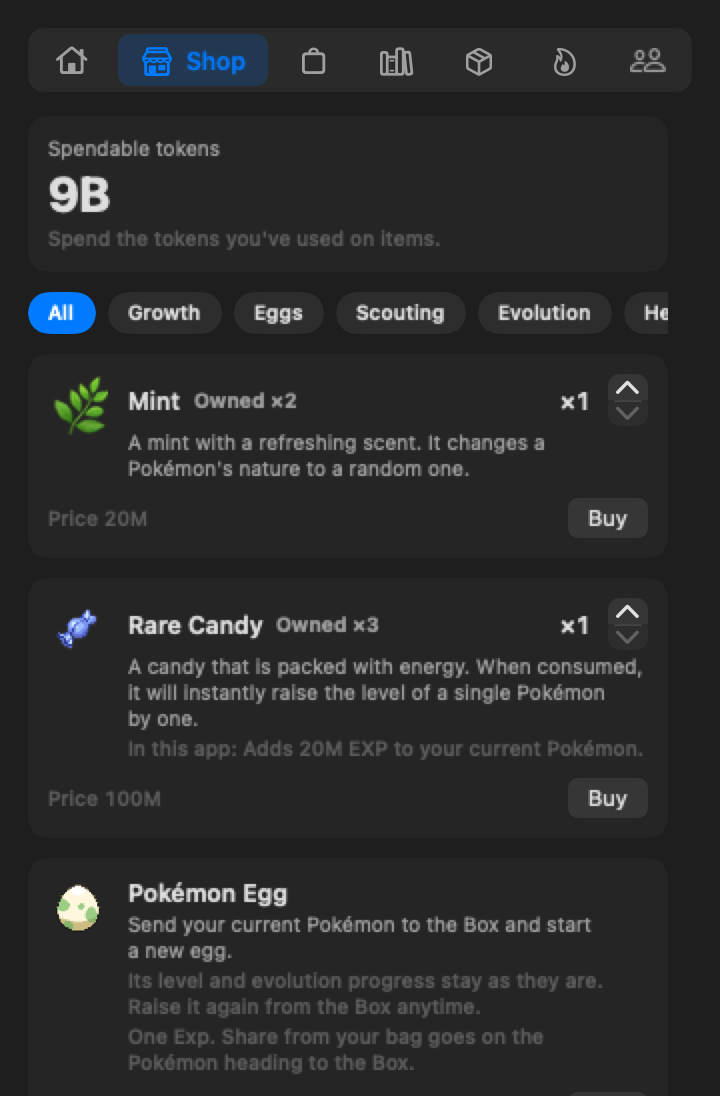
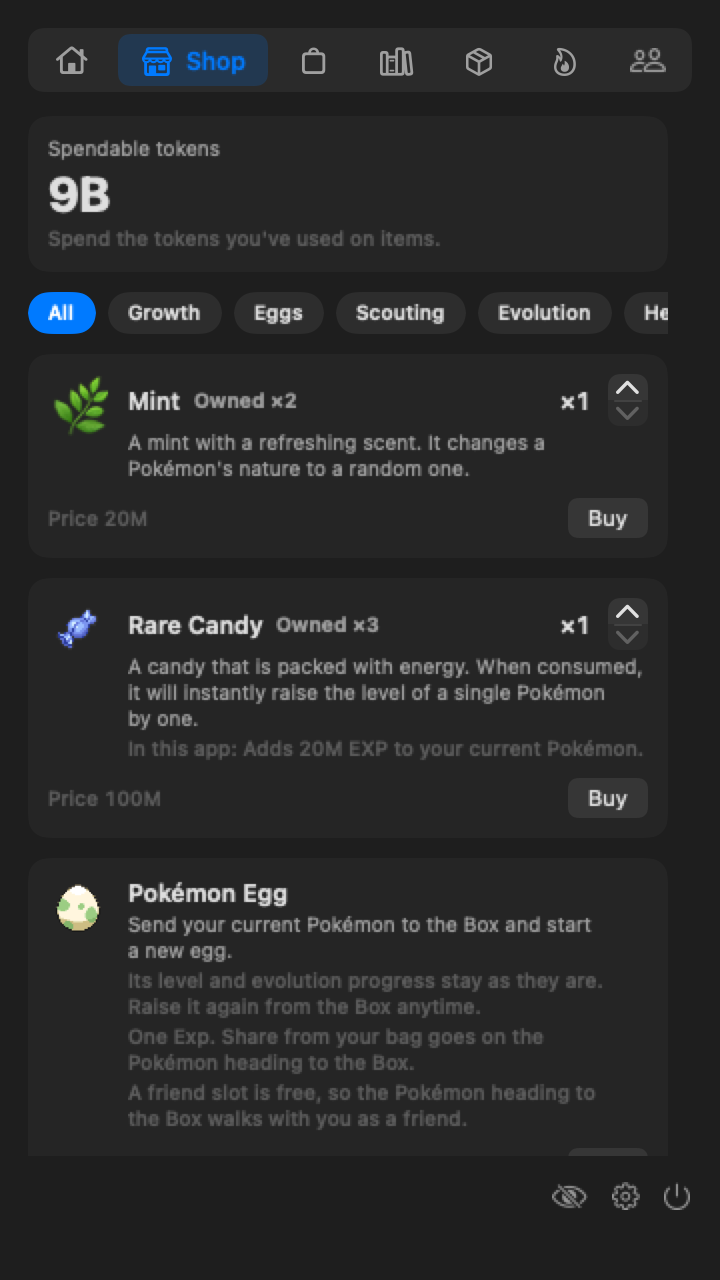
docs: add a README image of a stored friend and redraw the Box, Exp. Share, Shop and floating-friend images

diff --git a/Tests/PokeTokenBarTests/ReadmeScreenshotTests.swift b/Tests/PokeTokenBarTests/ReadmeScreenshotTests.swift
@@ -10,7 +10,7 @@ import XCTest
 @MainActor
 final class ReadmeScreenshotTests: XCTestCase {
     private static let server = "http://bot-host:8790"
-    private static let species = [4, 5, 6, 25, 95, 133]
+    private static let species = [1, 4, 5, 6, 25, 95, 133]
     private let languages: [(AppLanguage, String)] = [(.en, ""), (.ko, "-ko"), (.ja, "-ja")]
 
     func testDrawReadmeImages() async throws {
@@ -78,13 +78,16 @@ final class ReadmeScreenshotTests: XCTestCase {
                     .environment(uploader).environment(entry)
             }
             if language == .en {
-                store.removeFriend(entryID: BoxDexFixture.pikachuID)
                 try await shot(popover(home) { $0.tab = .home }, "screenshot-home", in: dir, height: nil)
-                XCTAssertTrue(store.addFriend(entryID: BoxDexFixture.pikachuID))
+                XCTAssertTrue(store.addFriend(entryID: StoredFriendScreenshotTests.bulbasaurID))
                 try await shot(await floatingFriends(usage: usage, store: store, sprites: scratch), "screenshot-floating-friends",
                                in: dir, height: nil)
+                store.removeFriend(entryID: StoredFriendScreenshotTests.bulbasaurID)
             }
-            try await shot(popover { $0.tab = .shop }, "screenshot-shop\(suffix)", in: dir, height: 548)
+            try await shot(try await storedFriends(store: store, language: language, usage: usage, defaults: defaults,
+                                                   sprites: scratch),
+                           "screenshot-stored-friends\(suffix)", in: dir, height: nil)
+            try await shot(popover { $0.tab = .shop }, "screenshot-shop\(suffix)", in: dir, height: 640)
             try await shot(popover { $0.tab = .bag }, "screenshot-bag\(suffix)", in: dir, height: 420)
             try await shot(heldItems(store: store), "screenshot-held-items\(suffix)", in: dir, height: nil)
             try await shot(popover { $0.tab = .dex }, "screenshot-collection-pokedex\(suffix)", in: dir, height: 420)
@@ -93,8 +96,8 @@ final class ReadmeScreenshotTests: XCTestCase {
                            "screenshot-pokemon-profile\(suffix)", in: dir, height: 560)
             try await shot(statusMoves(store: store, uploader: uploader, entry: entry),
                            "screenshot-status-moves\(suffix)", in: dir, height: nil)
-            try await shot(popover { $0.openBoxDetail(id: BoxDexFixture.pikachuID) },
-                           "screenshot-exp-share\(suffix)", in: dir, height: 372)
+            try await shot(popover { $0.openBoxDetail(id: StoredFriendScreenshotTests.bulbasaurID) },
+                           "screenshot-exp-share\(suffix)", in: dir, height: 380)
             let (battleStore, battleCleanup) = try BoxDexFixture.makeStore(
                 language: language, mutate: { Self.sample(&$0); Self.addKyogre(&$0) }, defaults: defaults)
             defer { battleCleanup() }
@@ -148,7 +151,8 @@ final class ReadmeScreenshotTests: XCTestCase {
         state.inventory["shiny-egg:150"] = 1
         state.inventory[ItemKind.punchingGlove.rawValue] = 1
         state.expShareHolders = [BoxDexFixture.pikachuID]
-        state.friendEntryIDs = [BoxDexFixture.charizardID, BoxDexFixture.pikachuID]
+        state.friendEntryIDs = [BoxDexFixture.charizardID]
+        StoredFriendScreenshotTests.addBulbasaur(&state)
         state.gymBadges.update("kanto") { $0.gyms = [1, 2, 3] }
     }
 
@@ -221,6 +225,38 @@ final class ReadmeScreenshotTests: XCTestCase {
             .frame(width: panel.width, height: panel.height)
             .frame(maxWidth: .infinity)
             .padding(.vertical, Spacing.lg)
+    }
+
+    /// The friend picker offering the stored Bulbasaur, and Home's header once it walks beside the raised Pokémon.
+    private func storedFriends(store: CompanionStore, language: AppLanguage, usage: UsageStore, defaults: UserDefaults,
+                               sprites: URL) async throws -> some View {
+        let (walking, cleanup) = try BoxDexFixture.makeStore(language: language, mutate: Self.sample, defaults: defaults)
+        addTeardownBlock { @MainActor in cleanup() }
+        XCTAssertTrue(walking.addFriend(entryID: StoredFriendScreenshotTests.bulbasaurID))
+        for id in Self.species { await walking.loadPokemonDetails(speciesID: id) }
+        walking.update(todayTokensByProvider: ["claude_code": 0], todayDate: "d1", monthTotal: 0, burnTier: .idle,
+                       limitWarning: false, hasUsageData: true)
+        try await waitUntil("the walking store's line to load") { walking.currentLine != nil }
+        let spriteStore = SpriteStore(directory: sprites.appendingPathComponent("sprites"))
+        for entry in store.state.dex {
+            let friend = FriendSubject(entry)
+            _ = await spriteStore.data(speciesID: friend.megaSpriteID ?? friend.speciesID, animated: false,
+                                       shiny: friend.isShiny, form: friend.megaSpriteID == nil ? friend.form : nil,
+                                       female: friend.megaSpriteID == nil && friend.isFemale)
+        }
+        return VStack(alignment: .leading, spacing: 18) {
+            FriendPicker(store: store, spriteStore: spriteStore) {}
+                .frame(height: 96, alignment: .top)
+                .padding(12)
+                .frame(maxWidth: .infinity, alignment: .leading)
+                .ptbCard()
+                .environment(store)
+            CompanionHeader(store: walking, spriteStore: spriteStore)
+                .padding(12)
+                .ptbCard()
+                .environment(walking).environment(usage)
+        }
+        .padding(PopoverMetrics.padding)
     }
 
     /// The gym list and the badge case, each on the card the Battle tab draws it on.

diff --git a/scripts/release-asset-gate.py b/scripts/release-asset-gate.py
@@ -52,7 +52,7 @@ SCREENS = (
                                         "screenshot-dex-next-evolution")),
     ("FloatingPetPanel.swift", ("screenshot-pet-interactions", "floating-pet", "screenshot-floating-friends")),
     ("PetCrowdViews.swift", ("screenshot-home", "screenshot-pet-interactions", "floating-pet",
-                             "screenshot-floating-friends")),
+                             "screenshot-floating-friends", "screenshot-stored-friends")),
     ("MenuBarContent.swift", ("menubar", "screenshot-menu-growth")),
 )
 

diff --git a/README.ko.md b/README.ko.md
@@ -178,8 +178,17 @@ Pi는 모델 여러 개를 세션 로그 하나로 흘려보낼 수 있습니다
 <td width="55%" valign="middle">
 <h3>📚 박스 포켓몬을 위한 학습장치</h3>
 가방의 <b>학습장치</b>를 박스 포켓몬 하나의 상세 화면에서 달아 주세요. 그 포켓몬은 지금 키우는 포켓몬이나 알이 얻는 경험치의 50%를 함께 받아서, 다음 포켓몬을 키우는 동안 졸업한 포켓몬도 계속 자랍니다. 떼기도 같은 화면에서 해요. <b>포켓몬 알</b>로 지금 포켓몬을 박스에 보내면 가방의 학습장치 하나가 그 포켓몬에 달려요.
+<br><br>
+학습장치는 포켓몬끼리 옮길 수도 있어요. 박스 상세 화면의 <b>여기로 옮기기</b>에서 가져올 포켓몬을 고르면 되고, 가방이 비어 있어도 됩니다. 학습장치를 단 박스 포켓몬은 경험치·레벨·친구·타입만 필요한 단계라면 박스에서 진화해요. 도구·교환·쓰다듬기·대결이 필요한 단계는 기다리고, 박스 화면에 다음 단계가 보여요.
 </td>
-<td width="45%" align="center"><img src="assets/screenshot-exp-share-ko.png" width="300" alt="박스의 피카츄에 단 학습장치"></td>
+<td width="45%" align="center"><img src="assets/screenshot-exp-share-ko.png" width="300" alt="여기로 옮기기와 달기 버튼이 보이는 박스의 이상해씨 상세 화면"></td>
+</tr>
+<tr>
+<td width="45%" align="center"><img src="assets/screenshot-stored-friends-ko.png" width="300" alt="보관 중인 이상해씨를 고를 수 있는 친구 선택과, 리자몽 옆을 걷는 이상해씨가 보이는 홈"></td>
+<td width="55%" valign="middle">
+<h3>🤝 박스 포켓몬도 함께 걸어요</h3>
+졸업한 포켓몬뿐 아니라 박스에서 쉬는 포켓몬도 친구가 될 수 있어요. 선택 화면에는 <b>보관 중</b> 표시가 붙어요. 지금 모습 그대로 홈과 플로팅 펫 옆을 걷고, 다시 키우면 친구 목록에서 빠져요. 포켓몬 알이나 스카우트로 지금 포켓몬을 박스에 보낼 때 친구 칸이 비어 있으면 그 포켓몬이 친구로 들어와요.
+</td>
 </tr>
 <tr>
 <td width="45%" align="center"><img src="assets/screenshot-battle-ko.png" width="300" alt="대결 탭 — 나갈 순서대로 선 최대 여섯 마리"><br><br><img src="assets/screenshot-gyms-ko.png" width="300" alt="체육관 관장·사천왕·아지트와 배지 케이스"></td>
@@ -259,7 +268,7 @@ Pi는 모델 여러 개를 세션 로그 하나로 흘려보낼 수 있습니다
 
 <img src="assets/screenshot-usage-recap-ko.png" width="360" alt="선택한 기간의 사용량 돌아보기">
 
-<small>위 홈·설정·폼·상점·가방·도감·다음 진화·박스·프로필·학습장치·대결·체육관·리플레이·챔피언·플로팅 친구·난이도·활동·지방 도감·펫 상호작용·회고 이미지는 샘플 데이터로 실제 UI를 로컬 렌더링한 이미지입니다. 체육관 이미지는 YPoke 봇의 관동 체육관 목록을 씁니다. 지방 도감·펫 보드는 별도로 렌더링한 실제 UI 컴포넌트를 조합했습니다. GIF는 설명용 데모이며 이전 배치를 보여줄 수 있습니다.</small>
+<small>위 홈·설정·폼·상점·가방·도감·다음 진화·박스·프로필·학습장치·대결·체육관·리플레이·챔피언·플로팅 친구·박스 친구·난이도·활동·지방 도감·펫 상호작용·회고 이미지는 샘플 데이터로 실제 UI를 로컬 렌더링한 이미지입니다. 체육관 이미지는 YPoke 봇의 관동 체육관 목록을 씁니다. 지방 도감·펫 보드는 별도로 렌더링한 실제 UI 컴포넌트를 조합했습니다. GIF는 설명용 데모이며 이전 배치를 보여줄 수 있습니다.</small>
 
 ## 에이전트 활동
 

diff --git a/README.md b/README.md
@@ -177,8 +177,17 @@ Open a Pokémon in the <b>Box</b> to inspect it: level, gender, nature, ability,
 <td width="55%" valign="middle">
 <h3>📚 Exp. Share for the Pokémon in the Box</h3>
 Attach an <b>Exp. Share</b> from the Bag to one Pokémon in the Box, from its detail page. It then gets 50% of the EXP your current Pokémon or egg earns, so a graduate keeps growing while you raise the next one. Detach it there too. When a <b>Pokémon Egg</b> sends your current Pokémon to the Box, one Exp. Share from your Bag goes on it.
+<br><br>
+An Exp. Share can also move between Pokémon: <b>Move here</b> on a Box page picks the holder to take it from, even when the Bag is empty. A holder in the Box evolves there through steps that need only EXP, a level, friends or a type. Steps that need an item, a trade, pets or a battle wait, and the Box page shows the next step.
 </td>
-<td width="45%" align="center"><img src="assets/screenshot-exp-share.png" width="300" alt="Exp. Share attached to a Pikachu in the Box"></td>
+<td width="45%" align="center"><img src="assets/screenshot-exp-share.png" width="300" alt="A stored Bulbasaur's Box page with Move here and Attach for the Exp. Share"></td>
+</tr>
+<tr>
+<td width="45%" align="center"><img src="assets/screenshot-stored-friends.png" width="300" alt="The friend picker offering a stored Bulbasaur, and Home with that Bulbasaur walking beside Charizard"></td>
+<td width="55%" valign="middle">
+<h3>🤝 Box Pokémon walk with you too</h3>
+A Pokémon waiting in the Box can be a friend, not only a graduate. The picker marks it <b>Stored</b>. It walks beside your Pokémon on Home and with the floating pet in its current form, and it leaves the friend list when you raise it again. When a Pokémon Egg or a scout sends your Pokémon to the Box while a friend slot is free, it joins as a friend.
+</td>
 </tr>
 <tr>
 <td width="45%" align="center"><img src="assets/screenshot-battle.png" width="300" alt="Battle tab — an entry of up to six Pokémon in fighting order"><br><br><img src="assets/screenshot-gyms.png" width="300" alt="Gym leaders, Elite Four, hideout and the badge case"></td>
@@ -258,7 +267,7 @@ Reset countdowns include the clock time, and the colored percentage stays aligne
 
 <img src="assets/screenshot-usage-recap.png" width="360" alt="Usage recap for a selected period">
 
-<small>The Home, Settings, form, Shop, Bag, Pokédex, next-evolution, Box, profile, Exp. Share, Battle, gym, replay, champion, floating-friends, difficulty, activity, regional Pokédex, pet-interaction, and recap images above are local renders of the production UI with sample data; the gym images use the YPoke bot's Kanto gym list. The regional and pet boards combine separate native UI component renders. Animated GIFs are illustrative demonstrations and may show an earlier layout.</small>
+<small>The Home, Settings, form, Shop, Bag, Pokédex, next-evolution, Box, profile, Exp. Share, Battle, gym, replay, champion, floating-friends, stored-friends, difficulty, activity, regional Pokédex, pet-interaction, and recap images above are local renders of the production UI with sample data; the gym images use the YPoke bot's Kanto gym list. The regional and pet boards combine separate native UI component renders. Animated GIFs are illustrative demonstrations and may show an earlier layout.</small>
 
 ## Agent activity
 
